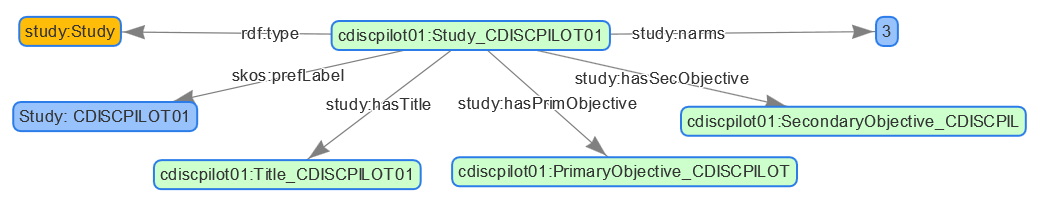
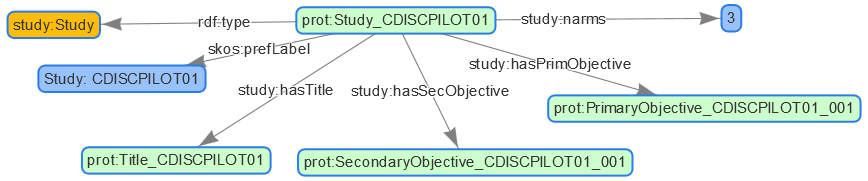
TS HandsOnDocumentation Update

diff --git a/doc/HandsOnCreateTriplesFromOWL.md b/doc/HandsOnCreateTriplesFromOWL.md
@@ -6,9 +6,6 @@ output:
     keep_md: true
 ---
 
-## Remark
-THIS IS UNDER DEVELOPMENT, many changes expected.
-
 
 ## Revision
 
@@ -16,11 +13,12 @@ Date         | Comment
 ------------ | ----------------------------
 2018-11-23   | Documentation creation (KG)
 2018-11-26   | Further Documentation (KG)
+2019-01-04   | Updates (KG)
 
 
 ## Overview
 
-To get start with creating triples using an ontology, you might want to perform the following steps:
+To get start with creating triples using ontology, you might want to perform the following steps:
 
 - Analyze OWL and figure out which object types you need
 - Create triples step by step, start with prototyping
@@ -32,7 +30,7 @@ In this hands on we use the Trial Summary (TS) as example. The ontology is locat
 
 The more complex an ontology is, the more difficult it is to figure out how the final structure should look like. You can use various ways to browse the ontology provided. In [HandsOnCTDasRDF](https://github.com/phuse-org/CTDasRDF/blob/master/doc/HandsOnCTDasRDF.md) there is a section "Get Hands on Ontologies" where different ways are made available.
 
-You find different HTML files containing a visualization in the r/vis/output folder. To look at them you need to download these files, as somehow the display through github does not work. The following visualizations are available:
+You find different HTML files containing visualization in the r/vis/output folder. To look at them you need to download these files, as somehow the display through github does not work. The following visualizations are available:
 
 Name                            |  Description
 -----------------------------   | -----------------
@@ -42,7 +40,7 @@ cdiscpilot01_protocol_ttl.html  | Visualization of the protocol triples, so the 
 sdtm_ttl_first300obs.html       | Part of the Tripples for sdtm.ttl ontology
 code_tts_first300obs.html       | Part of the Tripples for code.ttl ontology
 
-In the r/vis subfolder you can also find various program for different visualizations. To get on overview of the related Ontology elements required for the TS mapping, the program r/vis/vis_stardog_dbs.R is used - "create Ontology graph for CTDasRDFOWL (ofInterest_01)".
+In the r/vis subfolder you can also find various programs for different visualizations. To get on overview of the related Ontology elements required for the TS mapping, the program r/vis/vis_stardog_dbs.R is used - "create Ontology graph for CTDasRDFOWL (ofInterest_01)".
 
 ## Starting small for first experiences
 
@@ -62,7 +60,7 @@ Let's concentrate first on a small subset to see how things are working. Checkin
 
 We are going to start with the "Study" as core element and associate different objects to this. The "Title" object has potentially a longTitle and shortTitle which is a simple string. Then there is the narms (number of arms) as a simple integer assignment and finally we will include a PrimaryObjective and SecondaryObjective.
 
-The Visualization is done throug r/vis/vis_stardog_dbs.R in section "create Ontology graph for CTDasRDFOWL (ofInterest_01)".
+The Visualization is done through r/vis/vis_stardog_dbs.R in section "create Ontology graph for CTDasRDFOWL (ofInterest_01)".
 
 ![Figure: Ontology with parts of interest](./images/hands_on_triples_01.png)
 
@@ -85,34 +83,37 @@ Now we need to create the final objects as triples, so a .ttl file. We might wan
 @prefix study: <https://w3id.org/phuse/study#> .
 @prefix time: <http://www.w3.org/2006/time#> .
 @prefix xsd: <http://www.w3.org/2001/XMLSchema#> .
+@prefix prot: <https://w3id.org/phuse/prot#> .
 ```
 
-Then we need to include the triples. We are going to look first into study:Study. We need to create an instant first. An instant belongs to a namespace, which is the target. We store our triples in the cdiscpilot01.ttl file, so the namespace will be called cdiscpilot01 and have as uri the following which is also used as prefix: "@prefix cdiscpilot01: <https://w3id.org/phuse/cdiscpilot01#>". To make the instant unique, we need a unique name, which will be Study_CDISCPILOT01. To make it clear that this instance has as type the "study:Study" object, we define the "rdf:type" for this instance. Furthermore a prefered Label would be nice, so we include this as well.
+Then we need to include the triples. We are going to look first into study:Study. We need to create an instant first. An instant belongs to a namespace, which is the target. As the triples are more related to the protocol instead of the study itself, we store our triples in a separate protocol file cdiscpilot01-prot.ttl, so the namespace will be called prot and have as uri the following which is also used as prefix: "@prefix prot: <https://w3id.org/phuse/prot#>". You can find a final protocol and TS mapping already in the existing file: data/rdf/cdiscpilot01-protocol.ttl file.
+
+To make the study:Study instant unique, we need a unique name, which will be Study_CDISCPILOT01. To make it clear that this instance has as type the "study:Study" object, we define the "rdf:type" for this instance. Furthermore a preferred Label would be nice, so we include this as well.
 
 Then we can look at the connections for our study instance. It links to one base type - integer - with the "narms" and links to multiple other objects. As each object needs unique names / URIs, we include the study id as postfix. In case multiple objects of the same type are expected, we include additionally a number postfix which is true for the objectives. Actually our study contains multiple primary and secondary objectives. We are going to include the additional ones soon.
 
 We create our first instances the following way using the URIs described:
 
 ```
-cdiscpilot01:Study_CDISCPILOT01
+prot:Study_CDISCPILOT01
   rdf:type                            study:Study;
   skos:prefLabel                      "Study: CDISCPILOT01"^^xsd:string ;
   study:narms                         "3"^^xsd:int;
-  study:hasTitle                      cdiscpilot01:Title_CDISCPILOT01;
-  study:hasPrimObjective              cdiscpilot01:PrimaryObjective_CDISCPILOT01_001;
-  study:hasSecObjective               cdiscpilot01:SecondaryObjective_CDISCPILOT01_001;
+  study:hasTitle                      prot:Title_CDISCPILOT01;
+  study:hasPrimObjective              prot:PrimaryObjective_CDISCPILOT01_001;
+  study:hasSecObjective               prot:SecondaryObjective_CDISCPILOT01_001;
 .
 ```
 
-To get a visualization, we store the ts_test001.ttl file including the prefix definitions and first instances, upload these triples into a triple store - e.g. the stardog database - and run the visualization.
+To visualize, we store the ts_testmap.ttl file including the prefix definitions and first instances, upload these triples into a triple store - e.g. the stardog database - and run the visualization.
 
 ### Example - Clear DB, Add instances, Run Visualization
 
-Delete all triples from the CTDasRDFSMS database trouth the Stardog Web interface. Open your database <http://localhost:5820/CTDasRDFSMS>. Go to ">_Query" and execute the delete all tripples command: DELETE{?s ?p ?o} WHERE{?s ?p ?o}.
+Delete all triples from the CTDasRDFSMS database through the Stardog Web interface. Open your database <http://localhost:5820/CTDasRDFSMS>. Go to ">_Query" and execute the delete all triples command: DELETE{?s ?p ?o} WHERE{?s ?p ?o}.
 
-Load the ts_test001.ttl file into the the database through "Data" -> "+Add", choose the corresponding file and click "Upload". You should get a "Success!" message. You can check the success by selecting all triples in the store with the command: SELECT * WHERE {?s  ?p ?o}.
+Load the ts_test001.ttl file into the database through "Data" -> "+Add", choose the corresponding file and click "Upload". You should get a "Success!" message. You can check the success by selecting all triples in the store with the command: SELECT * WHERE {?s  ?p ?o}.
 
-The Visualization is done throug r/vis/vis_stardog_dbs.R in section "create content graph for CTDasRDFSMS".
+The Visualization is done through r/vis/vis_stardog_dbs.R in section "create content graph for CTDasRDFSMS".
 
 ![Figure: Instances](./images/hands_on_triples_02.png)
 
@@ -121,64 +122,64 @@ The Visualization is done throug r/vis/vis_stardog_dbs.R in section "create cont
 As a next step we need to define the linked instances further. In our case these are the three for the title, the primary objective and the secondary objective. Out study has just one long Title. Furthermore we should also specify the type of the Title. This we can do with the following triples:
 
 ```
-cdiscpilot01:Title_CDISCPILOT01
+prot:Title_CDISCPILOT01
   rdf:type                            study:Title;
   study:longTitle                     "Safety and Efficacy of the Xanomeline Transdermal Therapeutic System (TTS) in Patients with Mild to Moderate Alzheimer’s Disease."^^xsd:string ;
 .
 ```
 
-The objectives does not contain any further connections. They are unique as they are and the content should be included in the prefered label. As we have multiple primary and secondary objectives, we must create for each unique objective a unique instance. We change the definition for our Study_CDISCPILOT01 to include all objectives and furthermore define all single objectives. 
+The objectives do not contain any further connections. They are unique as they are and the content should be included in the preferred label. As we have multiple primary and secondary objectives, we must create for each unique objective a unique instance. We change the definition for our Study_CDISCPILOT01 to include all objectives and furthermore define all single objectives. 
 
 
 Our final ttl file contains now the following triple definitions additionally to the prefixes:
 
 ```
-cdiscpilot01:Study_CDISCPILOT01
+prot:Study_CDISCPILOT01
   rdf:type                            study:Study;
   skos:prefLabel                      "Study: CDISCPILOT01"^^xsd:string ;
   study:narms                         "3"^^xsd:int;
-  study:hasTitle                      cdiscpilot01:Title_CDISCPILOT01;
-  study:hasPrimObjective              cdiscpilot01:PrimaryObjective_CDISCPILOT01_001;
-  study:hasPrimObjective              cdiscpilot01:PrimaryObjective_CDISCPILOT01_002;
-  study:hasSecObjective               cdiscpilot01:SecondaryObjective_CDISCPILOT01_001;
-  study:hasSecObjective               cdiscpilot01:SecondaryObjective_CDISCPILOT01_002;
-  study:hasSecObjective               cdiscpilot01:SecondaryObjective_CDISCPILOT01_003;
-  study:hasSecObjective               cdiscpilot01:SecondaryObjective_CDISCPILOT01_004;
+  study:hasTitle                      prot:Title_CDISCPILOT01;
+  study:hasPrimObjective              prot:PrimaryObjective_CDISCPILOT01_001;
+  study:hasPrimObjective              prot:PrimaryObjective_CDISCPILOT01_002;
+  study:hasSecObjective               prot:SecondaryObjective_CDISCPILOT01_001;
+  study:hasSecObjective               prot:SecondaryObjective_CDISCPILOT01_002;
+  study:hasSecObjective               prot:SecondaryObjective_CDISCPILOT01_003;
+  study:hasSecObjective               prot:SecondaryObjective_CDISCPILOT01_004;
 .
 
-cdiscpilot01:Title_CDISCPILOT01
+prot:Title_CDISCPILOT01
   rdf:type                            study:Title;
   study:longTitle                     "Safety and Efficacy of the Xanomeline Transdermal Therapeutic System (TTS) in Patients with Mild to Moderate Alzheimer’s Disease."^^xsd:string ;
 .
   
-cdiscpilot01:PrimaryObjective_CDISCPILOT01_001
+prot:PrimaryObjective_CDISCPILOT01_001
   rdf:type                            study:PrimaryObjective;
   skos:prefLabel										  "To determine if there is a statistically significant relationship between the change in both ADAS-Cog and CIBIC+ scores, and drug dose (0, 50 cm2 [54 mg], and 75 cm2 [81 mg])"^^xsd:string ;
 .
 
-cdiscpilot01:PrimaryObjective_CDISCPILOT01_002
+prot:PrimaryObjective_CDISCPILOT01_002
   rdf:type                            study:PrimaryObjective;
   skos:prefLabel										  "To document the safety profile of the xanomeline TTS."^^xsd:string ;
 .
 
-cdiscpilot01:SecondaryObjective_CDISCPILOT01_001
+prot:SecondaryObjective_CDISCPILOT01_001
   rdf:type                            study:SecondaryObjective;
   skos:prefLabel										  "To assess the dose-dependent improvement in behavior. Improved scores on the Revised Neuropsychiatric Inventory (NPI-X) will indicate improvement in these areas."^^xsd:string ;
 .
 
-cdiscpilot01:SecondaryObjective_CDISCPILOT01_002
+prot:SecondaryObjective_CDISCPILOT01_002
   rdf:type                            study:SecondaryObjective;
   skos:prefLabel										  "To assess the dose-dependent improvements in activities of daily living. Improved scores on the Disability Assessment for Dementia (DAD) will indicate improvement in these areas."^^xsd:string ;
 .
 
 
-cdiscpilot01:SecondaryObjective_CDISCPILOT01_003
+prot:SecondaryObjective_CDISCPILOT01_003
   rdf:type                            study:SecondaryObjective;
   skos:prefLabel										  "To assess the dose-dependent improvements in an extended assessment of cognition that integrates attention/concentration tasks. The ADAS-Cog (14) will be used for this assessment."^^xsd:string ;
 .
 
 
-cdiscpilot01:SecondaryObjective_CDISCPILOT01_004
+prot:SecondaryObjective_CDISCPILOT01_004
   rdf:type                            study:SecondaryObjective;
   skos:prefLabel										  "To assess the treatment response as a function of Apo E genotype."^^xsd:string ;
 .
@@ -208,17 +209,17 @@ And will get the following output:
 * To assess the dose-dependent improvements in an extended assessment of cognition that integrates attention/concentration tasks. The ADAS-Cog (14) will be used for this assessment.
 * To assess the treatment response as a function of Apo E genotype.
 
-## Complete TS mapping
+## More TS mapping
 
 ### Get related ontology elements out of domain-range connections
 
 To continue with the TS mapping from the pilot study we check which ontology elements we need to fill. Quite a lot of the content can simply be mapped when looking into the domain-range connections of the ontology. 
 
-The Visualization is done throug r/vis/vis_stardog_dbs.R in section "create Ontology graph for CTDasRDFOWL (ofInterest_02)".
+The Visualization is done through r/vis/vis_stardog_dbs.R in section "create Ontology graph for CTDasRDFOWL (ofInterest_02)".
 
 ![Figure: Ontology for simple mappings](./images/hands_on_triples_04.png)
 
-So we are able to map 65% of all observations after this step in our TS domain and are missing 35% observations which are 17 in numbers. But where to map the other observations? Some might be missing as the ontology is under development, but some are already available, but can only be mapped when considering the sub-class connections.
+So we are able to map 65% of all observations after this step in our TS domain and are missing 35% observations which are 17 in numbers. But where should the other observations be mapped to? Some might be missing as the ontology is under development, but some are already available, but can only be mapped when considering the sub-class connections.
 
 ### Connecting sub-class hierarchies
 
@@ -238,6 +239,62 @@ According the class hierarchy, the sub-classes have the same attributes like the
 
 ![Figure: Attributes for class study:Activity](./images/hands_on_triples_06.png)
 
-So now we merge all reqiured attributes and sub-class values together to be able to map the two Cutoff values to our graph.
+So now we merge all required attributes and sub-class values together to be able to map the two Cutoff values to our graph.
 
 ![Figure: Attributes for class study:Activity](./images/hands_on_triples_07.png)
+
+### Mapping CDISC codes - NoYesResponse
+
+The examples so far showed how a text or a number is instanciated. Let us also have a look how controlled terminology is mapped. Controlled terminology items are available in the code.ttl triples. We might start with the simple No-Yes-Response. The "study:adaptiveDesign" predicate has as connection the "code:NoYesResponse". According CDISC, three possible values are available: N, Y and NA. So there are three different instances available. In the code.ttl you can find three corresponding instnaces named sdtmterm:NoYesResponse_N, sdtmterm:NoYesResponse_Y and sdtmterm:NoYesResponse_NA. CDISC definitions as well as the nciCode and even alternative labels are attached to these items, additional information is coming out of the box (if existing).
+
+As these items are already available in an ontology, we simply can connect our study instance with the corresponding answer as triple:
+
+```
+prot:Study_CDISCPILOT01   study:adaptiveDesign  sdtmterm:NoYesResponse_N;
+```
+
+This simple step we can do for all NoYesResponse variables. If you are using automatic processes, you should consider that data is quite often not clean. So there might be values like "No", "Yes" or similar in the values. Make sure to perform a data cleaning to be able to map to the correct instances.
+
+Our study:Study definition including the NoYesResponse variables is now looking like this:
+
+```
+prot:Study_CDISCPILOT01
+  rdf:type                            study:Study;
+  skos:prefLabel                      "Study: CDISCPILOT01"^^xsd:string ;
+  study:narms                         "3"^^xsd:int;
+  study:adaptiveDesign                sdtmterm:NoYesResponse_N ;
+  study:hasTitle                      prot:Title_CDISCPILOT01;
+  study:hasPrimObjective              prot:PrimaryObjective_CDISCPILOT01_001;
+  study:hasPrimObjective              prot:PrimaryObjective_CDISCPILOT01_002;
+  study:hasSecObjective               prot:SecondaryObjective_CDISCPILOT01_001;
+  study:hasSecObjective               prot:SecondaryObjective_CDISCPILOT01_002;
+  study:hasSecObjective               prot:SecondaryObjective_CDISCPILOT01_003;
+  study:hasSecObjective               prot:SecondaryObjective_CDISCPILOT01_004;
+  study:adaptiveDesign                sdtmterm:NoYesResponse_N ;
+  study:isAddOnStudy                  sdtmterm:NoYesResponse_N ;
+  study:randomizedTrial               sdtmterm:NoYesResponse_Y ;
+.
+
+```
+
+
+## Design Decisions
+
+### Populations
+
+Content wise the two items for the planned population size and the actual population size are not applicable for the complete population size, but only contain those subjects which are in the enrolled population. For this it has been decided that a study has two different populations, the StudyPopulation containing all subjects and the EnrolledPopulation containing only attributes for enrolled subjects.
+
+So we create our study with two populations:
+
+```
+prot:Study_CDISCPILOT01
+   study:hasPopulation  prot:EnrolledPopulation_CDISCPILOT01;
+   study:hasPopulation  prot:StudyPopulation_CDISCPILOT01;
+.
+```
+
+And then attach the attributes to the corresponding instance. This looks like the following:
+
+![Figure: Using two different populations](./images/hands_on_triples_08.png)
+
+

diff --git a/doc/questions.md b/doc/questions.md
@@ -1,0 +1,27 @@
+---
+title: "Questions related to the ontology"
+output: 
+  html_document:
+    toc: true
+    keep_md: true
+---
+
+
+## Revision
+
+Date         | Comment
+------------ | ----------------------------
+2019-01-04   | Document creation (KG)
+
+
+## Trial Summary - addOn/isAddOnStudy
+
+We do have two triples in the study.ttl:
+
+```
+study:Study     study:addOn         code:NoYesResponse
+study:Study     study:isAddOnStudy  code:NoYesResponse
+```
+
+**Question**: Where is the difference? In the TS domain there is only the TSPARMCD = ADDON.
+**Answer**:
